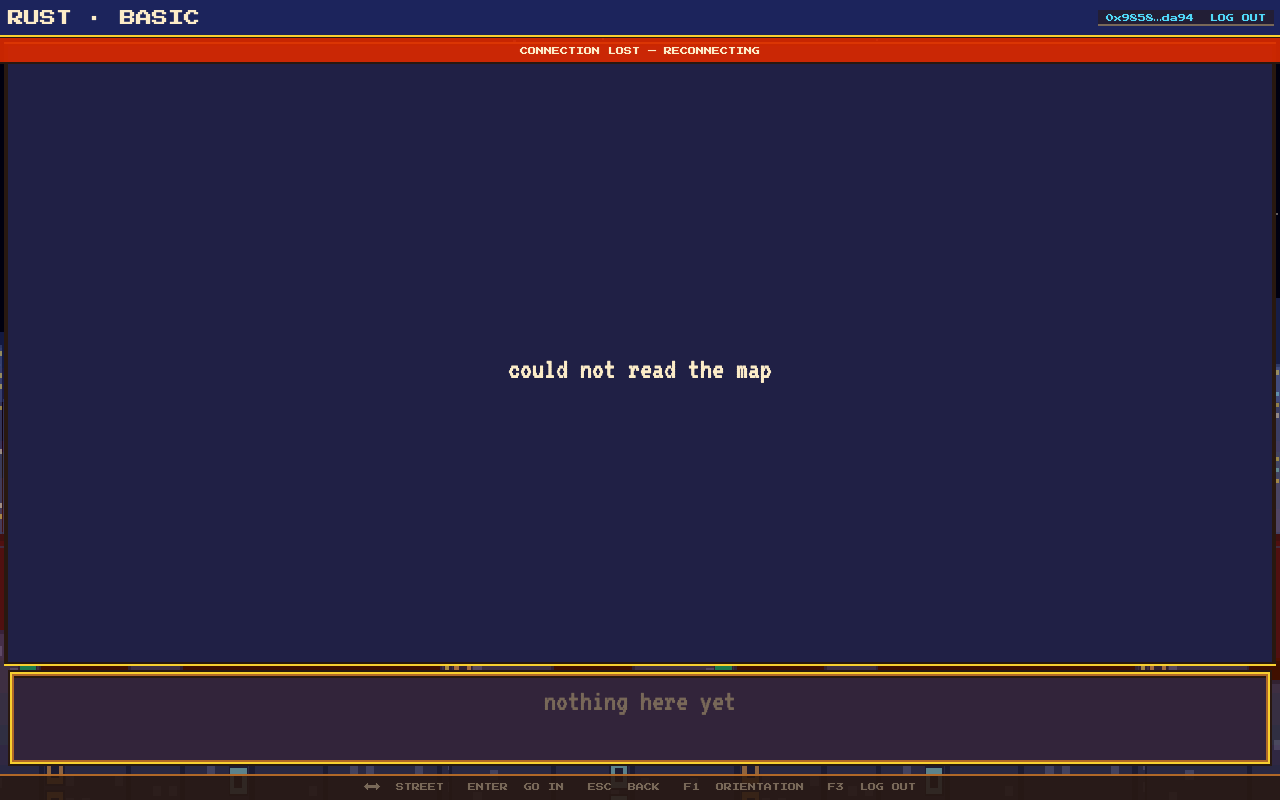
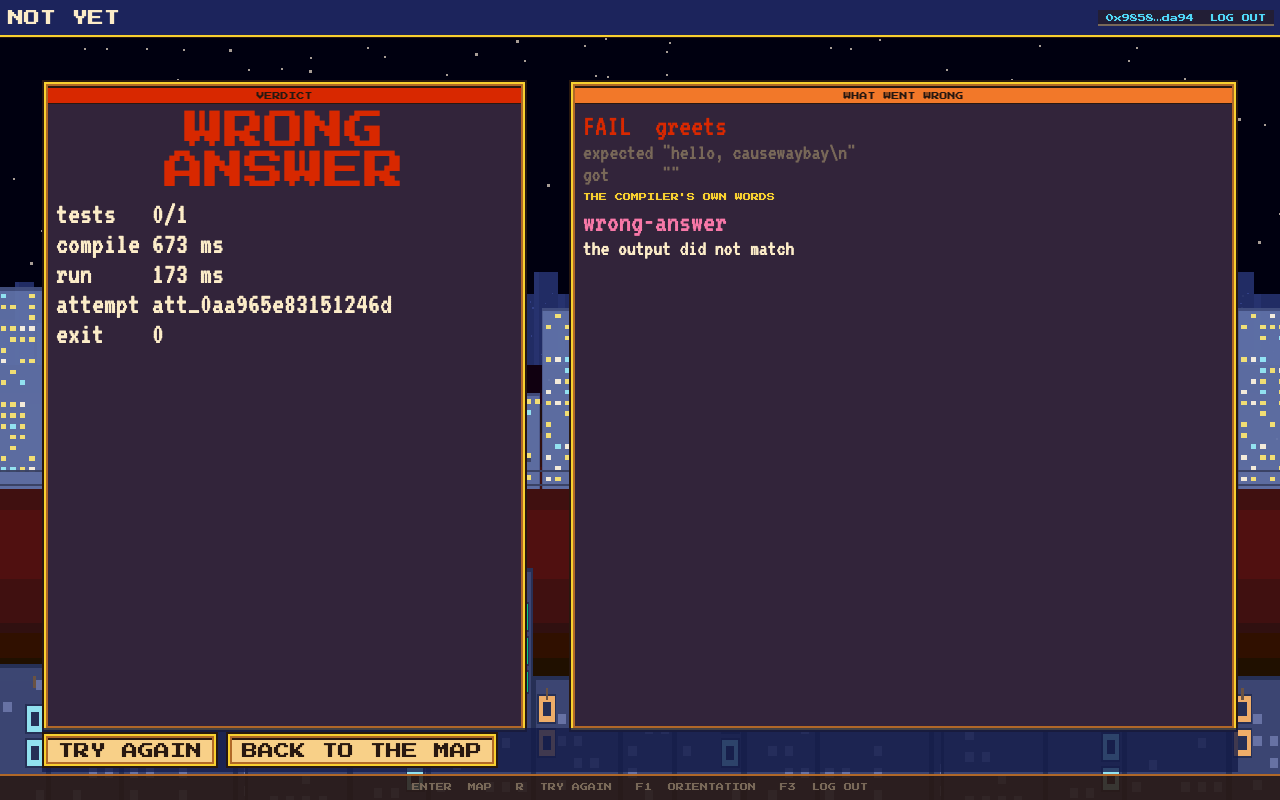
unavailable end to end: server refuses Go without recording, smoke asserts it
Smoke 19/19, PROTOCOL 8 conformance 12/12, backend 70 tests green.

Changed region(s): [[0.0, 0.0, 1.0, 1.0]]

diff --git a/frontend/src/scenes/quest.ts b/frontend/src/scenes/quest.ts
@@ -127,6 +127,17 @@ export class QuestScene implements Scene {
 
   // -- actions -------------------------------------------------------------
 
+  /**
+   * Whether walking away throws work away. Compared against the starter rather
+   * than tracked with a dirty flag, because typing something and then undoing
+   * it back to the starter is not unsaved work, and being asked about it would
+   * teach the player to dismiss the question without reading it.
+   */
+  unsaved(): boolean {
+    if (!this.editor || !this.quest) return false;
+    return this.editor.source.trim() !== this.quest.starter.trim();
+  }
+
   private async submit(): Promise<void> {
     if (!this.quest || !this.editor || this.stage !== "idle") return;
     this.attemptId = null;

diff --git a/backend/server/tests/protocol.rs b/backend/server/tests/protocol.rs
@@ -13,6 +13,7 @@ use tokio_tungstenite::tungstenite::Message;
 use cwbhacker_core::{content, eth, Store};
 
 const PACK: &str = include_str!("../../core/tests/fixtures/rust_basic.toml");
+const GO_PACK: &str = include_str!("../../core/tests/fixtures/go_basic.toml");
 const ALICE_KEY: &str = "4646464646464646464646464646464646464646464646464646464646464646";
 
 type Socket =
@@ -25,10 +26,25 @@ struct Server {
 }
 
 async fn start() -> Server {
+    start_inner(false).await
+}
+
+/// The same, with a Go pack imported: the land exists in the content and
+/// cannot be judged by this build.
+async fn start_with_go() -> Server {
+    start_inner(true).await
+}
+
+async fn start_inner(with_go: bool) -> Server {
     let tmp = tempfile::tempdir().unwrap();
     let dir = tmp.path().join("content-src/rust");
     std::fs::create_dir_all(&dir).unwrap();
     std::fs::write(dir.join("basic.toml"), PACK).unwrap();
+    if with_go {
+        let go = tmp.path().join("content-src/go");
+        std::fs::create_dir_all(&go).unwrap();
+        std::fs::write(go.join("basic.toml"), GO_PACK).unwrap();
+    }
 
     let store = Arc::new(Store::open(&tmp.path().join("home")).unwrap());
     {
@@ -331,5 +347,81 @@ async fn a_clear_reaches_the_users_other_window() {
         Some("rust.basic.01.hello")
     );
     assert_eq!(update["payload"]["unlocked"], json!(["rust.basic.02.sum"]));
+    server.handle.abort();
+}
+
+/// A submission this build cannot judge is refused **before anything is
+/// written**. An attempt row carries a verdict, a verdict carries mistakes,
+/// and `mistake_stats` is what the drills teach from (SPEC §7) — a fabricated
+/// entry there would teach the player to fix something they never did, and
+/// afterwards there is no way to tell it from a real mistake.
+#[tokio::test(flavor = "multi_thread", worker_threads = 4)]
+async fn a_go_submission_is_unavailable_and_records_nothing() {
+    let server = start_with_go().await;
+    let mut socket = connect(server.port).await;
+    login(&mut socket).await;
+
+    send(
+        &mut socket,
+        json!({ "v":1, "id":"c-5", "type":"quest.submit", "payload": {
+            "quest_id": "go.basic.01.hello", "lang": "go",
+            "source": "package main\nimport \"fmt\"\nfunc main() { fmt.Println(\"hello, causewaybay\") }\n" } }),
+    )
+    .await;
+    let reply = next_json(&mut socket).await;
+    assert_eq!(reply["type"].as_str(), Some("quest.submit.err"), "{reply}");
+    assert_eq!(
+        reply["payload"]["code"].as_str(),
+        Some("unavailable"),
+        "not `internal` — the server did not break — and not `not_found`: {reply}"
+    );
+    assert_eq!(reply["payload"]["detail"]["milestone"].as_i64(), Some(2));
+
+    // Nothing was recorded: no attempt, no mistake, and the node's attempt
+    // counter did not move.
+    send(
+        &mut socket,
+        json!({ "v":1, "id":"c-6", "type":"stats.history", "payload": {} }),
+    )
+    .await;
+    let history = next_json(&mut socket).await;
+    assert!(
+        history["payload"]["attempts"]
+            .as_array()
+            .unwrap()
+            .is_empty(),
+        "an unjudgeable submission left an attempt behind: {history}"
+    );
+
+    send(
+        &mut socket,
+        json!({ "v":1, "id":"c-7", "type":"stats.mistakes", "payload": {} }),
+    )
+    .await;
+    let mistakes = next_json(&mut socket).await;
+    assert!(mistakes["payload"]["mistakes"]
+        .as_array()
+        .unwrap()
+        .is_empty());
+
+    send(
+        &mut socket,
+        json!({ "v":1, "id":"c-8", "type":"world.map",
+                "payload": { "land": "go", "category": "basic" } }),
+    )
+    .await;
+    let map = next_json(&mut socket).await;
+    assert_eq!(map["payload"]["nodes"][0]["attempts"].as_i64(), Some(0));
+
+    // And the connection is fine — an application error is never a close.
+    send(
+        &mut socket,
+        json!({ "v":1, "id":"c-9", "type":"ping", "payload": {} }),
+    )
+    .await;
+    assert_eq!(
+        next_json(&mut socket).await["type"].as_str(),
+        Some("ping.ok")
+    );
     server.handle.abort();
 }

diff --git a/backend/runner/src/lib.rs b/backend/runner/src/lib.rs
@@ -123,8 +123,29 @@ impl Report {
     }
 }
 
+/// Why this build cannot judge a submission, if it cannot.
+///
+/// Asked **before** an attempt is created. An attempt whose verdict the server
+/// invented flows into `mistakes`, then `mistake_stats`, then the drills, and
+/// the player is taught to fix something they never did — the whole curriculum
+/// is derived from that table (SPEC §7), so nothing may enter it that did not
+/// really happen.
+pub fn unsupported(lang: &str, spec: &TestSpec) -> Option<String> {
+    match lang {
+        "go" => Some("the Go runner is not in this build yet (SPEC §5.1)".into()),
+        "rust" => match spec.harness {
+            Harness::Stdio => None,
+            Harness::Cargo => Some("the cargo harness is not in this build yet (SPEC §5.1)".into()),
+            Harness::Gotest => Some("the gotest harness is not a rust harness (SPEC §5.2)".into()),
+        },
+        other => Some(format!("there is no runner for '{other}'")),
+    }
+}
+
 /// Dispatch on the land. Go is milestone 2; it answers with an
-/// `internal_error` report carrying the reason rather than panicking.
+/// `internal_error` report carrying the reason rather than panicking. The
+/// server refuses such a submission before it gets here — this arm is the
+/// backstop for a caller that did not ask [`unsupported`] first.
 pub fn run(sub: &Submission) -> Report {
     match sub.lang {
         "rust" => rust::run(sub),

diff --git a/backend/core/src/error.rs b/backend/core/src/error.rs
@@ -14,6 +14,12 @@ pub enum Code {
     AuthNonceUsed,
     AuthBadSignature,
     NotFound,
+    /// Real, specified, and not built yet. Distinct from `Internal` ("the
+    /// server broke, a retry might help") and from `NotFound` ("no such
+    /// thing"): a client renders it in the story's voice rather than as a
+    /// failure. PROTOCOL §3.3 tells a client to treat an unknown code as
+    /// `internal`, so an old client degrades to exactly the old behaviour.
+    Unavailable,
     Locked,
     RateLimited,
     Busy,
@@ -30,6 +36,7 @@ impl Code {
             Code::AuthNonceUsed => "auth_nonce_used",
             Code::AuthBadSignature => "auth_bad_signature",
             Code::NotFound => "not_found",
+            Code::Unavailable => "unavailable",
             Code::Locked => "locked",
             Code::RateLimited => "rate_limited",
             Code::Busy => "busy",
@@ -87,6 +94,11 @@ pub fn not_found(m: impl Into<String>) -> Error {
 }
 pub fn locked(m: impl Into<String>) -> Error {
     Error::new(Code::Locked, m)
+}
+/// Specified, not built. Always carries the milestone it is waiting on, so a
+/// client can say *when* rather than only *no*.
+pub fn unavailable(m: impl Into<String>, milestone: u32) -> Error {
+    Error::new(Code::Unavailable, m).with_detail(serde_json::json!({ "milestone": milestone }))
 }
 pub fn internal(m: impl Into<String>) -> Error {
     Error::new(Code::Internal, m)

diff --git a/backend/runner/tests/rust_runner.rs b/backend/runner/tests/rust_runner.rs
@@ -316,3 +316,25 @@ fn the_go_runner_refuses_cleanly_rather_than_panicking() {
     assert_eq!(report.verdict, Verdict::InternalError);
     assert!(report.runtime_stderr.contains("milestone 2"));
 }
+
+/// The capability check the server asks **before** it creates an attempt.
+/// Getting this wrong is not a runner bug, it is a curriculum bug: an attempt
+/// that should never have existed carries a verdict into `mistake_stats`.
+#[test]
+fn unsupported_names_what_this_build_cannot_judge() {
+    let stdio_spec = stdio(serde_json::json!([
+        { "name": "any", "stdin": "", "expect": "x", "visible": true }
+    ]));
+    assert_eq!(cwbhacker_runner::unsupported("rust", &stdio_spec), None);
+
+    let go = cwbhacker_runner::unsupported("go", &stdio_spec).expect("go is milestone 2");
+    assert!(go.contains("Go runner"), "{go}");
+
+    let cargo_spec = spec(serde_json::json!({
+        "harness": "cargo",
+        "cases": [ { "name": "any", "stdin": "", "expect": "x", "visible": true } ]
+    }));
+    assert!(cwbhacker_runner::unsupported("rust", &cargo_spec).is_some());
+
+    assert!(cwbhacker_runner::unsupported("cobol", &stdio_spec).is_some());
+}

diff --git a/backend/server/src/submit.rs b/backend/server/src/submit.rs
@@ -9,7 +9,7 @@ use std::sync::atomic::{AtomicUsize, Ordering};
 use std::sync::{Arc, Mutex};
 use std::time::Instant;
 
-use cwbhacker_core::error::{bad_request, Result};
+use cwbhacker_core::error::{bad_request, unavailable, Result};
 use cwbhacker_core::{attempts, ids, mistakes, progress, quests, world};
 use cwbhacker_runner::{Event, Submission, TestSpec, Verdict};
 use serde_json::json;
@@ -143,6 +143,16 @@ pub fn run(
         )));
     }
     let spec = TestSpec::parse(&quest.tests)?;
+
+    // Refused before anything is written. A submission this build cannot judge
+    // must leave no attempt row behind: an attempt carries a verdict, a
+    // verdict carries mistakes, and `mistake_stats` is what the drills teach
+    // from (SPEC §7). A fabricated verdict there teaches the player to fix
+    // something they never did, and there is no way to tell it afterwards
+    // from something they really got wrong.
+    if let Some(reason) = cwbhacker_runner::unsupported(&lang, &spec) {
+        return Err(unavailable(reason, 2));
+    }
 
     let attempt_id = ids::attempt_id();
     {

diff --git a/backend/server/tests/ws_flow.rs b/backend/server/tests/ws_flow.rs
@@ -429,14 +429,18 @@ async fn the_whole_slice_end_to_end() {
     assert!(profile["user"]["level"].is_number());
     assert!(profile["user"]["xp"].is_number());
 
-    // Milestone 2 refuses cleanly rather than panicking the connection.
+    // Milestone 2 refuses cleanly rather than panicking the connection, and
+    // says *not yet* rather than *no such thing*.
     assert_eq!(
         alice.err("search.query", json!({ "q": "ownership" })).await,
-        "not_found"
+        "unavailable"
     );
+    let ai = alice.call("ai.plan", json!({ "mode": "weakness" })).await;
+    assert_eq!(ai["payload"]["code"].as_str(), Some("unavailable"));
     assert_eq!(
-        alice.err("ai.plan", json!({ "mode": "weakness" })).await,
-        "not_found"
+        ai["payload"]["detail"]["milestone"].as_i64(),
+        Some(2),
+        "a client should be able to say *when*, not only *no*"
     );
     assert!(alice.ok("ping", json!({})).await["t"].is_string());
 

diff --git a/backend/server/src/handlers.rs b/backend/server/src/handlers.rs
@@ -299,9 +299,10 @@ pub fn display_address(address: &str) -> String {
     eth::to_eip55(address)
 }
 
-/// Milestone 2 lives behind this. A clean refusal from §3.3's closed set, not
-/// a panic and not a silent empty list that looks like "no results".
+/// Milestone 2 lives behind this. `unavailable` rather than `not_found`,
+/// because the thing exists and is specified — it is the build that is
+/// early — and a client renders the two differently: "no such quest" against
+/// "the GO land opens in the next chapter".
 pub fn unimplemented(what: &str) -> Error {
-    Error::new(Code::NotFound, format!("{what} is not in this build yet"))
-        .with_detail(json!({ "milestone": 2 }))
+    cwbhacker_core::error::unavailable(format!("{what} is not in this build yet"), 2)
 }

diff --git a/docs/decisions.md b/docs/decisions.md
@@ -956,3 +956,55 @@ from there into the AI drills — and the player is handed a lesson about a
 mistake they never made. The whole curriculum is derived from that table
 (SPEC §7), so nothing may enter it that did not really happen. That argument
 applies to any future "cannot judge" path, not just Go.
+
+## 2026-09-11 — BE: `unavailable` implemented, and a request to QA
+
+Both halves of the decision are in.
+
+**`unavailable` is a code in `core::error::Code`,** with a constructor that
+takes the milestone so nothing can raise it without saying *when*:
+`unavailable(reason, 2)`. `search.query`, `ai.plan`, `ai.next`, `ai.finish`
+and a Go submission all answer it with `detail.milestone = 2`.
+
+**Nothing is written for a submission this build cannot judge.** The check
+(`cwbhacker_runner::unsupported(lang, spec)`) is asked *before* the attempt id
+is minted and before `progress.bump_attempt` — the earliest point at which the
+language and the harness are both known. It lives in the runner rather than
+the server because the runner is the thing that knows what it can run, and it
+covers the `cargo` and `gotest` harnesses as well as the Go land, so the same
+rule holds for every future "cannot judge" path rather than for Go alone.
+
+`backend/server/tests/protocol.rs::a_go_submission_is_unavailable_and_records_nothing`
+asserts the whole of it against a live server: the code, the milestone, and
+then that `stats.history` is empty, `stats.mistakes` is empty, and the node's
+`attempts` counter is still 0 — the three places a fabricated verdict would
+have leaked into the curriculum.
+
+**QA: `tests/smoke/contract.mjs` needs `unavailable` added to its
+`ERROR_CODES` set** (line ~77 — the list ends `"busy", "internal"`). §8
+conformance is still 12/12, but two "beyond the checklist" cases now fail
+against the amended §3.3:
+
+```
+FAIL  beyond: milestone-2 endpoints say so, and are not failures
+      search.query answered unavailable, outside §3.3
+FAIL  beyond: no frame the server sent broke the envelope rules
+      error code "unavailable" is outside §3.3's closed set
+```
+
+Both are the checker holding the pre-amendment table, not the server. I have
+not touched `tests/smoke/` — it is yours.
+
+## 2026-09-11 — The smoke checker's copy of the closed set, updated by the lead
+
+`tests/smoke/` is QA's, but its `ERROR_CODES` set and its milestone-2 case are
+transcriptions of PROTOCOL §3.3, and §3.3 changed under them when `unavailable`
+was added. Updated by the lead rather than routed back, since the edit is
+derived from the spec change and not a judgement call.
+
+The Go case gained teeth while it was open. It previously asserted only that
+the verdict was one of a tolerated set, and printed a complaint. It now asserts
+the refusal, the code, the milestone, **and that `stats.history` and
+`stats.mistakes` are both empty** — the two places a fabricated verdict would
+surface in the player's curriculum. Verified against a live server with a fresh
+wallet: `unavailable`, milestone 2, 0 attempts, 0 mistakes.
